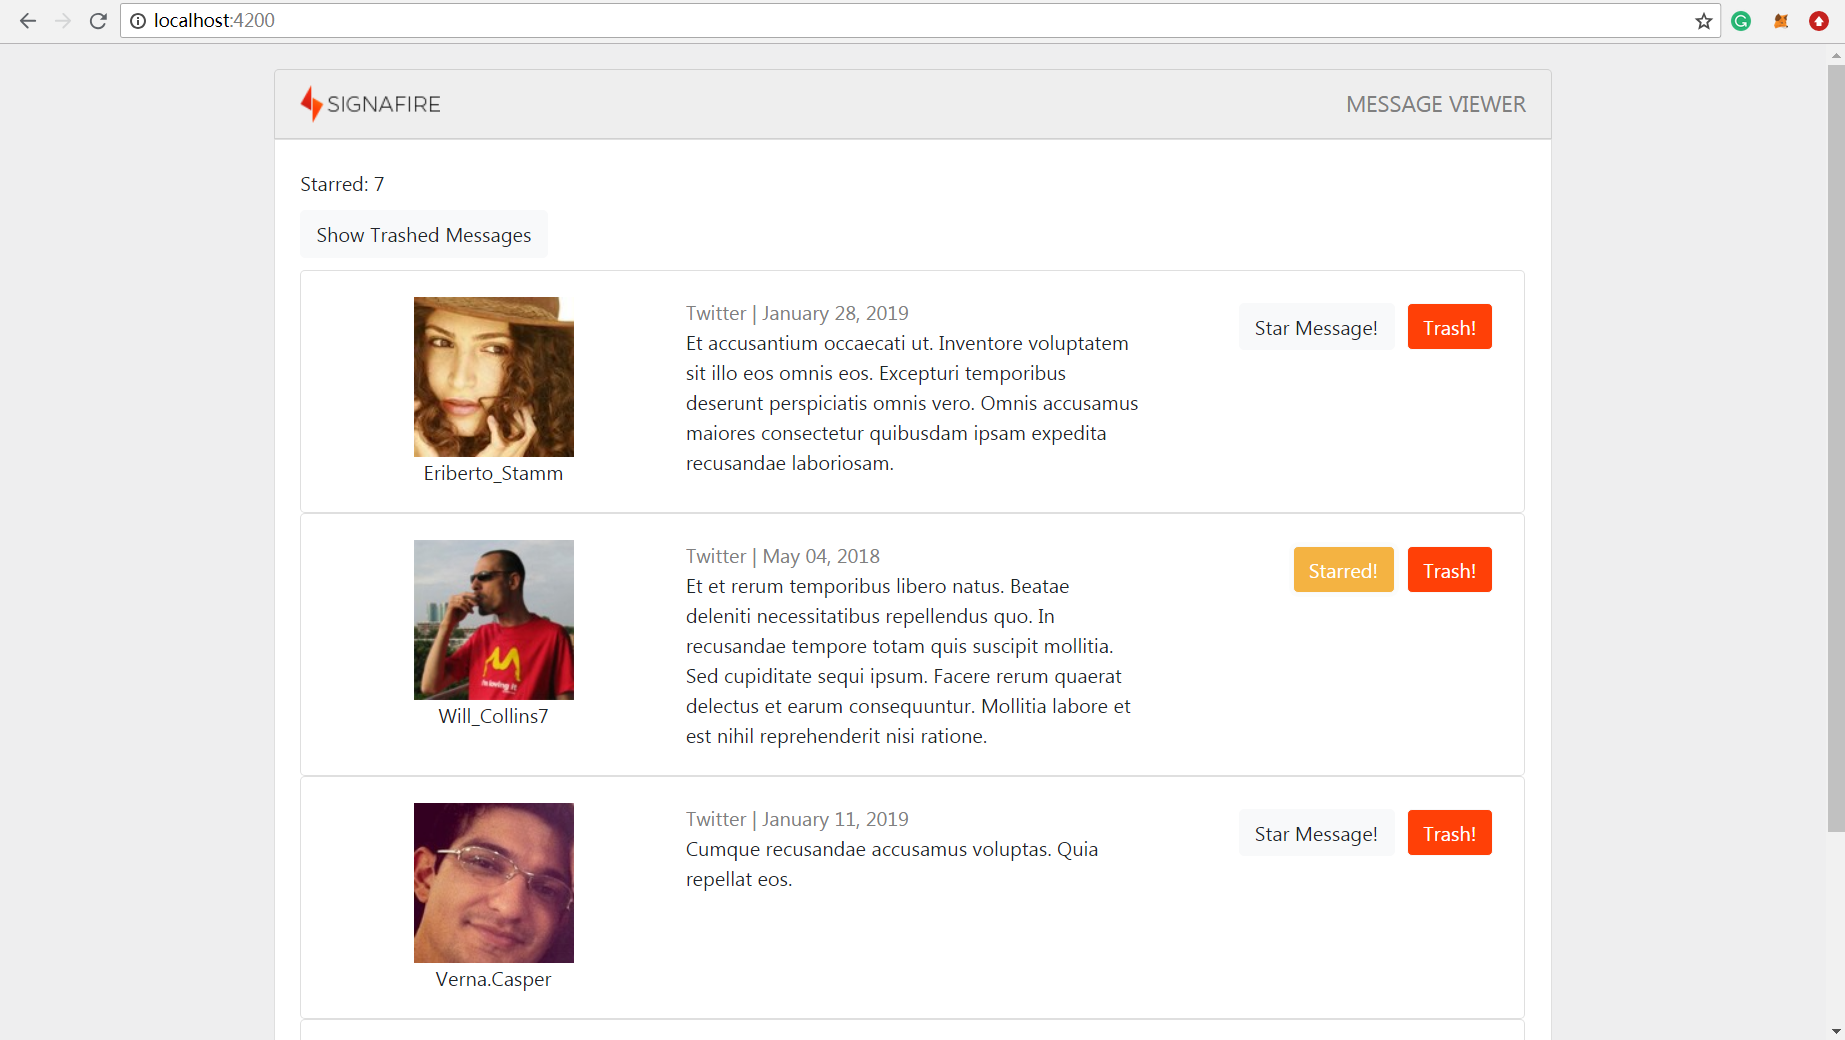
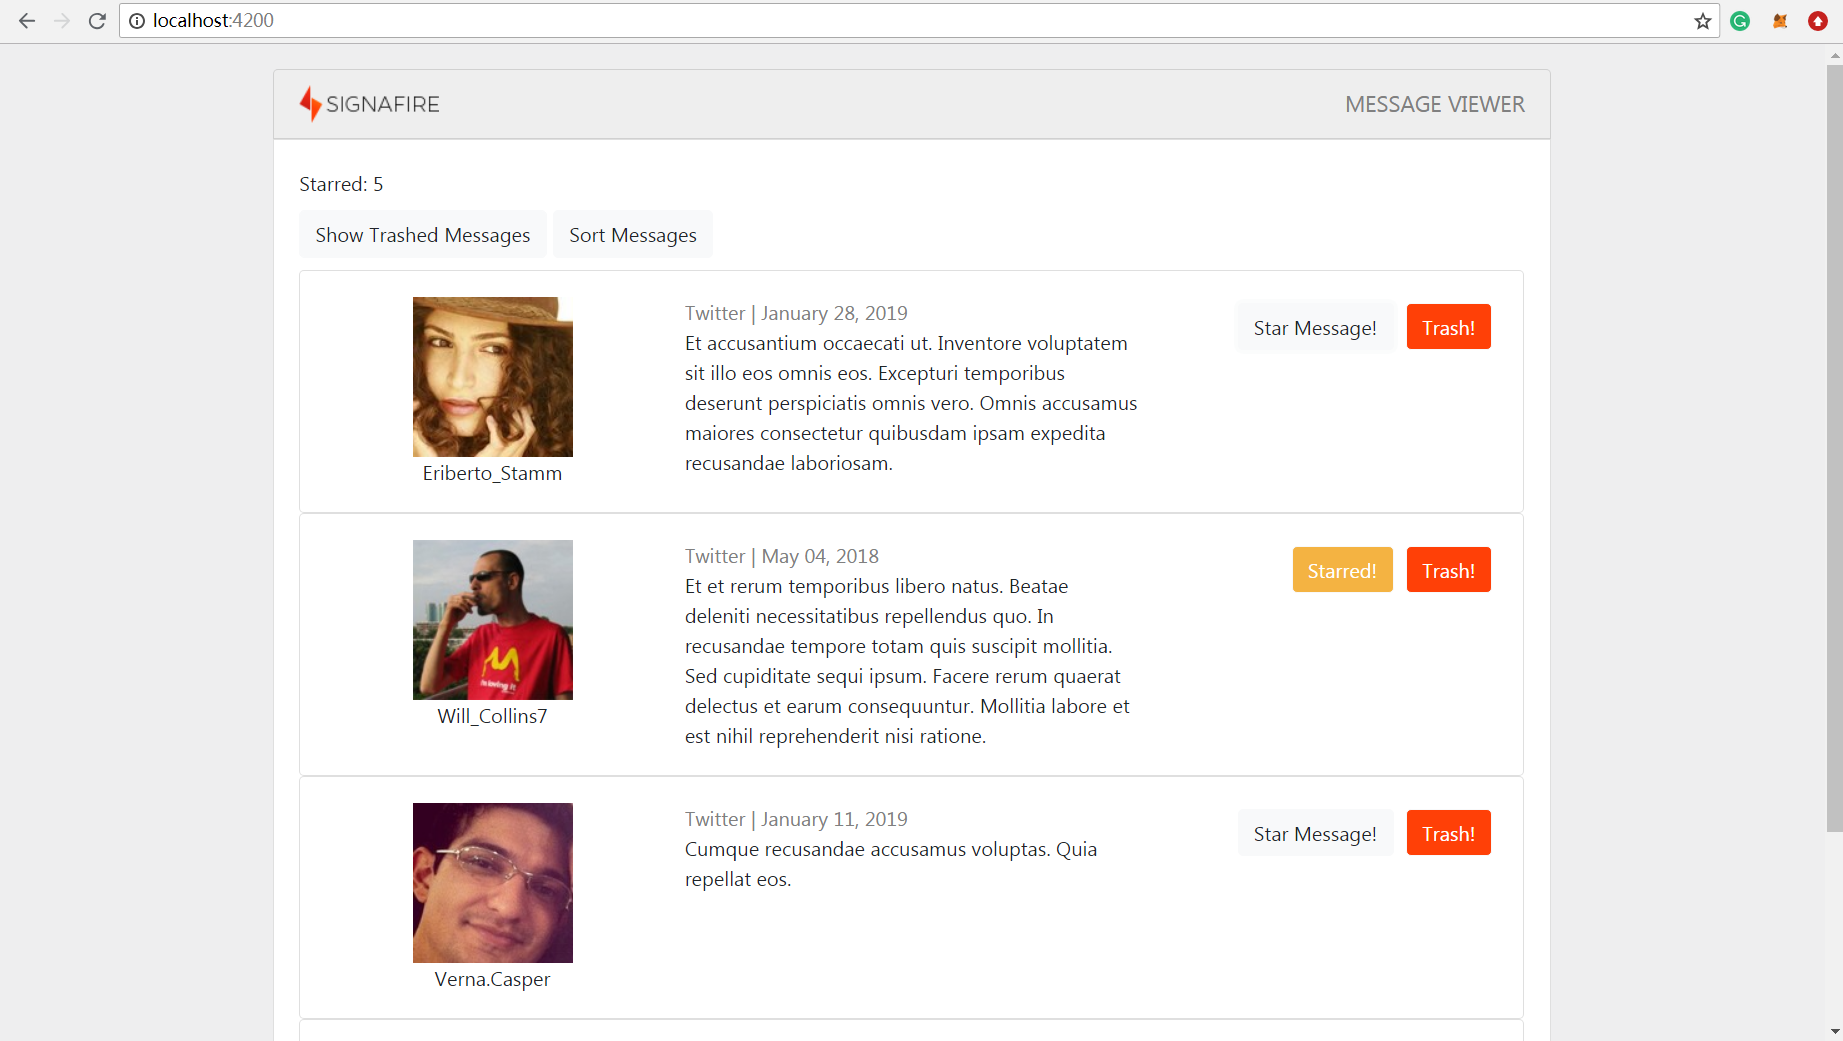
add sort

diff --git a/src/messageviewer/src/app/messages/messages.component.ts b/src/messageviewer/src/app/messages/messages.component.ts
@@ -2,10 +2,10 @@ import { Component } from '@angular/core';
 import { MessagesService } from './messages.service'
  
 @Component({
-  selector: 'messages-selector',
-  templateUrl: './messages.component.html',
-  providers: [MessagesService],
-  styleUrls: ['./messages.component.css']
+    selector: 'messages-selector',
+    templateUrl: './messages.component.html',
+    providers: [MessagesService],
+    styleUrls: ['./messages.component.css']
 })
 export class MessagesComponent {
     messages = [];
@@ -20,17 +20,21 @@ export class MessagesComponent {
     updateMessages() {
         this.messagesService.getMessages().subscribe(result => {
             console.log (result);
-            this.messages = [];
-            for (var i = 0; i < Object.keys(result).length; i++) {
-                result[i].timestamp = new Date(result[i].timestamp).toLocaleString('en-us', { 
-                    month: 'long', day: '2-digit', year: 'numeric'});
-                this.messages.push(result[i]);
-            }
+            this.insertMessages(result);
             
         }, error => {
             console.log("Get Messages Failed: ", error);
         }
         );
+    }
+
+    insertMessages(result : any) {
+        this.messages = [];
+        for (var i = 0; i < Object.keys(result).length; i++) {
+            result[i].timestamp = new Date(result[i].timestamp).toLocaleString('en-us', { 
+                month: 'long', day: '2-digit', year: 'numeric'});
+            this.messages.push(result[i]);
+        }
     }
 
     updateStarCount() {
@@ -64,5 +68,13 @@ export class MessagesComponent {
 
     onClickViewButton() {
         this.viewUntrashed = !this.viewUntrashed;
+    }
+
+    onClickSortButton() {
+        this.messagesService.putSort().subscribe(result => {
+            this.insertMessages(result);
+        }, error=> {
+            console.log("Sort Messages Failed: ", error);
+        })
     }
 }

diff --git a/src/messageviewer/src/app/message/message.component.html b/src/messageviewer/src/app/message/message.component.html
@@ -1,47 +1,3 @@
-<!-- <div class="msg-container row"> 
-    <div class="left col">
-        
-        <img [src] = "avatar" class="centered">
-        
-        
-        <p class="centered"> {{handle}}</p>
-    </div>
-    <div class="mid col">
-        <div style="color: gray">
-            {{source}} | {{timestamp}}
-        </div>
-           {{content}} {{starred}}
-    </div>
-    <div class="right col">
-            <button type="button" class="btn btn-light" (click) = "onClickStarButton()" [ngClass]="{'unstar-btn':isStarred}">
-                    {{isStarred == 0 ? 'Star Message!' : 'Starred!' }}</button>
-            <button type="button" class="btn btn-light trash-btn" (click) = "onClickTrashButton()" *ngIf="!isTrashed">
-                    Trash!</button>        
-    </div>
-</div> -->
-
-
-
-        <!-- <div class="column left" style="background-color: grey">
-                <img [src] = "avatar" class="centered">
-                <p class="centered"> {{handle}}</p>
-        </div>
-        <div class="column middle" >
-                <div style="color: gray">
-                        {{source}} | {{timestamp}}
-                    </div>
-                       {{content}} {{starred}}
-        </div>
-        <div class="column right" >
-            <div class="button">
-                    <button class="button" type="button" class="btn btn-light trash-btn" (click) = "onClickTrashButton()" *ngIf="!isTrashed">
-                            Trash!</button>
-                </div>
-            <div class="button">
-                <button type="button" class="btn btn-light" (click) = "onClickStarButton()" [ngClass]="{'unstar-btn':isStarred}">
-                        {{isStarred == 0 ? 'Star Message!' : 'Starred!' }}</button>
-            </div>
-        </div> -->
 <div class="msg-container">
         <div class="column left">
             <img [src] = "avatar" class="centered">

diff --git a/src/messageviewer/src/app/message/message.component.css b/src/messageviewer/src/app/message/message.component.css
@@ -1,91 +1,3 @@
-
-/*
-.trash-btn {
-    background-color: #ff4007;
-    color: #ffffff;
-}
-.unstar-btn {
-    background-color: #f4b342;
-    color: #ffffff;
-}
-
-.msg-container {
-    display: inline-block;
-    margin: 0;
-    padding: 10px;
-}
-.row:after {
-    content: "";
-    display: table;
-    clear: both;
-  }
-.col {
-    float: left;
-    padding: 10px;
-}
-
-.left {
-    width: 50%;
-}
-
-.mid {
-    width: 50%;
-}
-.right {
-    width: 20%;
-}
-.centered {
-    display: block;
-    margin: 0 auto;
-    text-align: center;
-}
-* {
-    box-sizing: border-box;
-  }
-  */
-
-/*
-.msg-container {
-    margin: 0;
-    padding: 10px;
-    display: table-cell;
-}
-
-.column {
-    float: left;
-    padding: 10px;
-}
-
-.button {
-    float: right;
-    padding: 5px;
-}
-
-.left, .right {
-    width: 25%;
-}
-  
-.middle {
-    width: 50%;
-}
-
-.centered {
-    display: block;
-    margin: 0 auto;
-    text-align: center;
-}
-
-.trash-btn {
-    background-color: #ff4007;
-    color: #ffffff;
-}
-.unstar-btn {
-    background-color: #f4b342;
-    color: #ffffff;
-}
-*/
-
-
 .msg-container {
     margin: 0;
     padding: 10px;

diff --git a/src/messageviewer/src/app/root/root.component.html b/src/messageviewer/src/app/root/root.component.html
@@ -1,19 +1,19 @@
 
 <div class="rowscontainer" style="width: 70%; margin: 0 auto; padding-top: 20px;">
-        <div class="list-group-item header row columnsContainer">
-            <div class="column">
-                <img src="../assets/assets_logo-sf-small.png" style="float: left">
-            </div>
-            <div class="column">
-                <div class="title"> MESSAGE VIEWER </div>
-            </div>
+    <div class="list-group-item header row columnsContainer">
+        <div class="column">
+            <img src="../assets/assets_logo-sf-small.png" style="float: left">
         </div>
-        <div class="list-group-item body row">
-            <div class="rowscontainer">
-                <messages-selector></messages-selector>
-            </div>
-            
+        <div class="column">
+            <div class="title"> MESSAGE VIEWER </div>
         </div>
+    </div>
+    <div class="list-group-item body row">
+        <div class="rowscontainer">
+            <messages-selector></messages-selector>
+        </div>
+        
+    </div>
 </div>
 
 

diff --git a/src/server/server.js b/src/server/server.js
@@ -41,7 +41,6 @@ app.get("/get/star", function(req , res){
 
 app.get("/get/messages", function(req, res) {
   var query = "select * from message";
-  console.log()
   executeQuery(query, res);  
 })
 
@@ -65,6 +64,15 @@ app.put("/put/trashstatus", function(req, res) {
   `;
   executeQuery(query, res);
 });
+
+app.put("/put/sort", function(req, res) {
+  var query = `
+  select * from message order by score desc
+  `;
+  console.log("query sorted records");
+  executeQuery(query, res);
+});
+
 
 function createDB() {
   con.query("DROP DATABASE IF EXISTS message_viewer", function (err, result) {

diff --git a/src/messageviewer/src/app/messages/messages.component.html b/src/messageviewer/src/app/messages/messages.component.html
@@ -3,8 +3,11 @@
 </div>
 
 <div class="row">
-    <button type="button" class="btn btn-light" (click) = "onClickViewButton()">
+    <button type="button" class="btn btn-light" (click)="onClickViewButton()">
             {{viewUntrashed == true ? 'Show Trashed Messages' : 'Show Untrashed messages' }}</button>
+        <button type="button" class="btn btn-light" (click)="onClickSortButton()" style="margin-left: 5px;">
+                Sort Messages
+        </button>
 </div>
 
 <ul class="list-group row">

diff --git a/src/messageviewer/src/app/message/message.component.ts b/src/messageviewer/src/app/message/message.component.ts
@@ -1,9 +1,9 @@
 import { Component, Input, EventEmitter, Output } from '@angular/core';
  
 @Component({
-  selector: 'message-selector',
-  templateUrl: './message.component.html',
-  styleUrls: ['./message.component.css']
+    selector: 'message-selector',
+    templateUrl: './message.component.html',
+    styleUrls: ['./message.component.css']
 })
 export class MessageComponent {
     @Input() userid: string;

diff --git a/src/messageviewer/src/app/messages/messages.service.ts b/src/messageviewer/src/app/messages/messages.service.ts
@@ -32,4 +32,9 @@ export class MessagesService {
             "istrashed": jsondata.istrashed
         })       
     }
+
+    putSort() {
+        return this.http.put('/api/put/sort', {
+        });
+    }
 }

diff --git a/src/messageviewer/src/app/root/root.component.ts b/src/messageviewer/src/app/root/root.component.ts
@@ -6,8 +6,4 @@ import { Component } from '@angular/core';
   styleUrls: ['root.component.css']
 })
 export class RootComponent {
-  ss = []
-   addtext() {
-    this.ss.push('a');
-   }
 }
